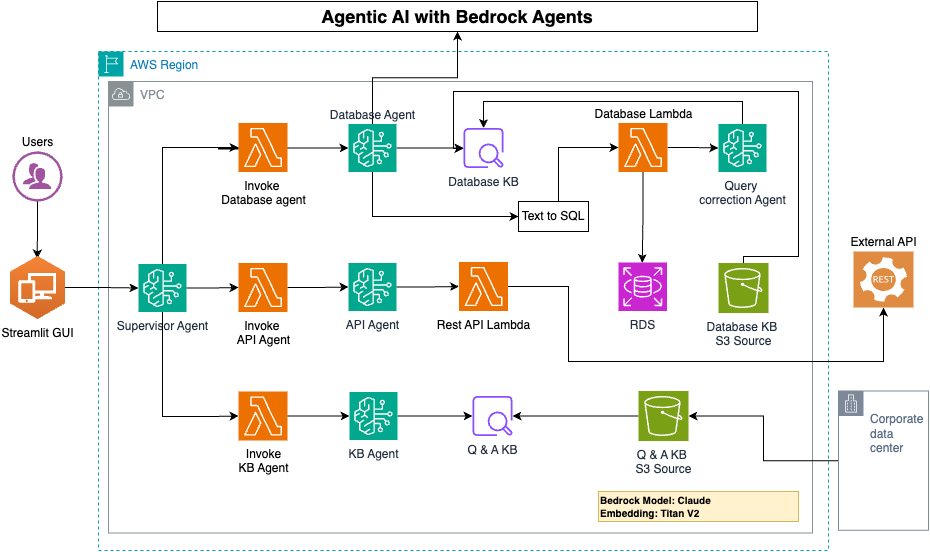
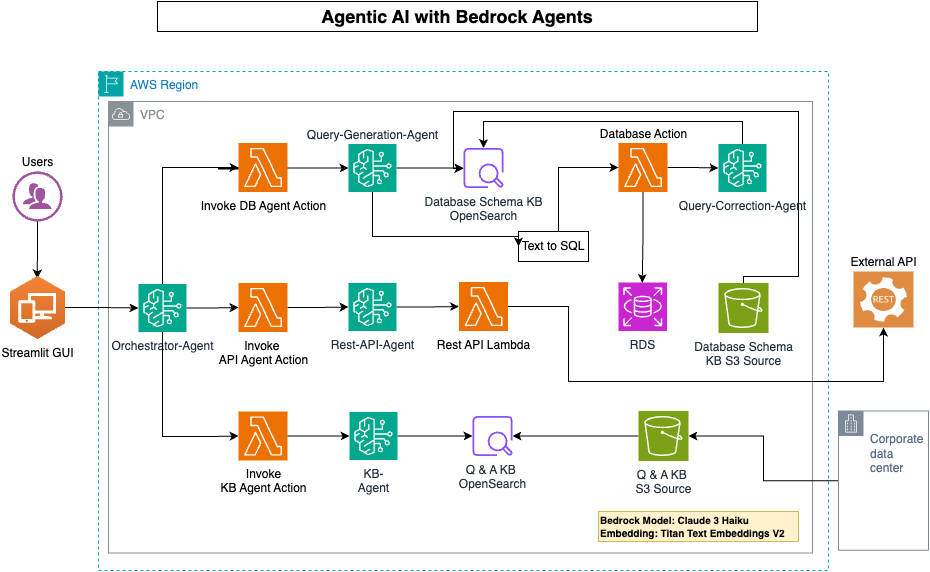
update codebase

diff --git a/application/lambdas/database-action/lambda_function.py b/application/lambdas/database-action/lambda_function.py
@@ -52,11 +52,11 @@ def lambda_handler(event, context):
         }
     
     # Fetch PostgreSQL connection details from environment variables
-    rds_host = os.environ.get('RDS_HOST', 'petstore-instance-1.c7icaemqq3d4.us-east-1.rds.amazonaws.com')
-    rds_db = os.environ.get('RDS_DB', 'petstore')
-    rds_port = os.environ.get('RDS_PORT', '5432')
-    rds_username = os.environ.get('RDS_USERNAME', 'postgres')
-    rds_password = os.environ.get('RDS_PASSWORD', 'petstoremaster')
+    rds_host = os.environ.get('DB_HOST', 'petstore-instance-1.c7icaemqq3d4.us-east-1.rds.amazonaws.com')
+    rds_db = os.environ.get('DB_NAME', 'petstore')
+    rds_port = os.environ.get('DB_PORT', '5432')
+    rds_username = os.environ.get('DB_USER', 'postgres')
+    rds_password = os.environ.get('DB_PASSWORD', 'petstoremaster')
 
     # Fetch Query Correction AgentID from environment variables
     query_correction_agent_id = os.environ.get('QUERY_CORRECTION_AGENT_ID', '')

diff --git a/README.md b/README.md
@@ -1,7 +1,7 @@
 
 # Agentic AI with Bedrock Agents
 
-This repository demonstrates the architecture and implementation of an agent-based AI system using AWS Bedrock Agents and the Claude model. The architecture leverages AWS Lambda, S3, and RDS, and uses a variety of agents (Database Agent, API Agent, KB Agent) to provide an interactive and functional AI-driven experience. The architecture is depicted in the image `AgenticDemo.png`.
+This repository demonstrates the architecture and implementation of an agent-based AI system using AWS Bedrock Agents and the Claude model. The architecture leverages AWS Lambda, S3, OpenSearch and RDS, and uses a variety of agents (Database Agent, API Agent, KB Agent) to provide an interactive and functional AI-driven experience.
 
 ## Architecture Overview
 
